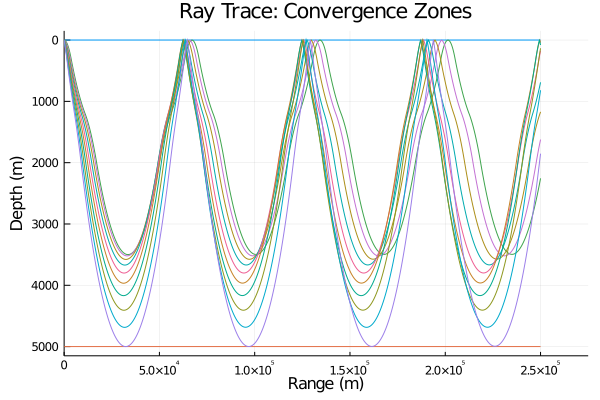
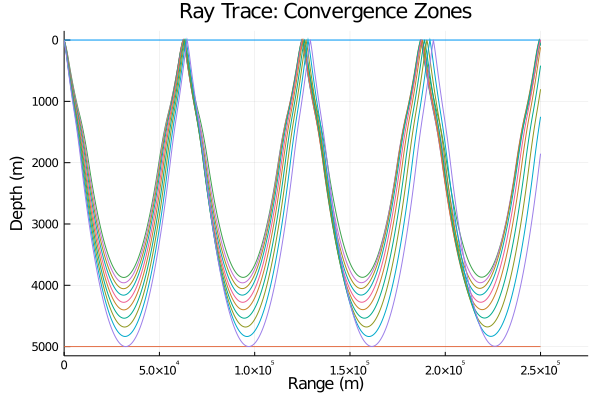
Added termination for backpropagation

Changed region(s): [[0.09, 0.09, 0.9, 0.84]]

diff --git a/README.md b/README.md
@@ -74,7 +74,7 @@ display(p)
 ![](plots/rays/upward.png)
 
 ## Motivation
-There are a variety of ocean acoustics modelling software available online, which prompts asking for the purpose for yet another one.
+There are a variety of ocean acoustics modelling software available online, which prompts asking for the purpose of yet another one.
 * **Core code legibility**: Due to the heavy computational power needed, other model implementations are performed in C++ or Fortran where readability is low and bugs are difficult to resolve.
 * **Automatic differentiation**: Julia allows the quick and easy utilization of continuous functions and the fast calculation of their smooth derivatives, avoiding artefacts of discretisation found in other implementations.
 * **Easy multithreading**: Some solvers are written in Matlab, which lacks scalability. Julia places the full power of computation in the hands of the scientist while having legible code.
